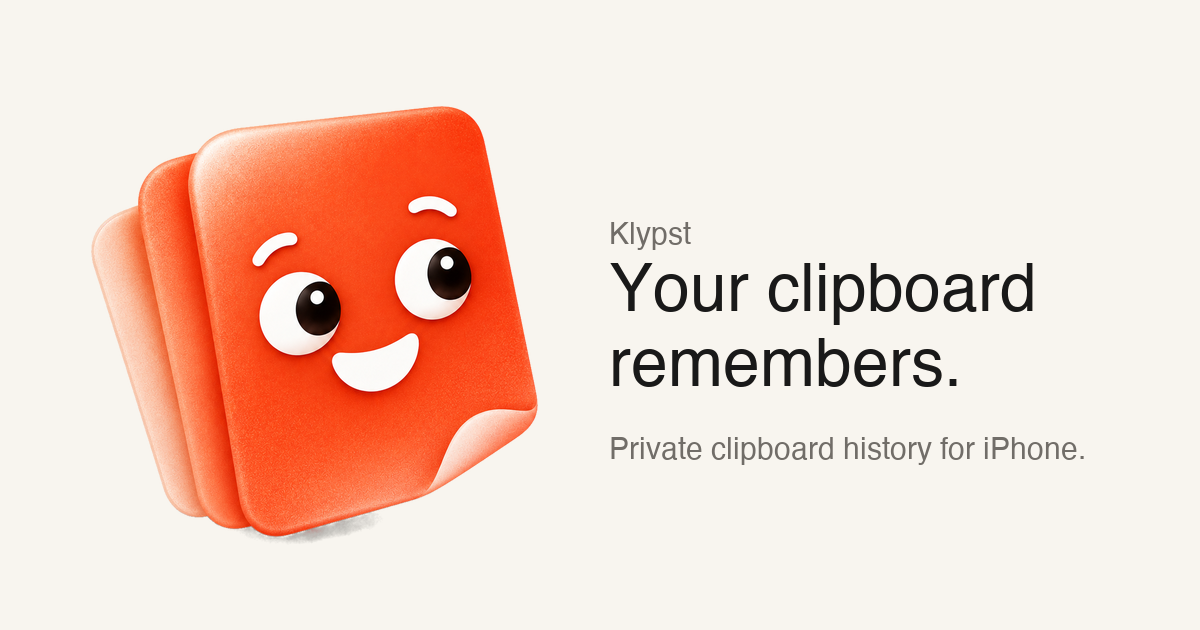
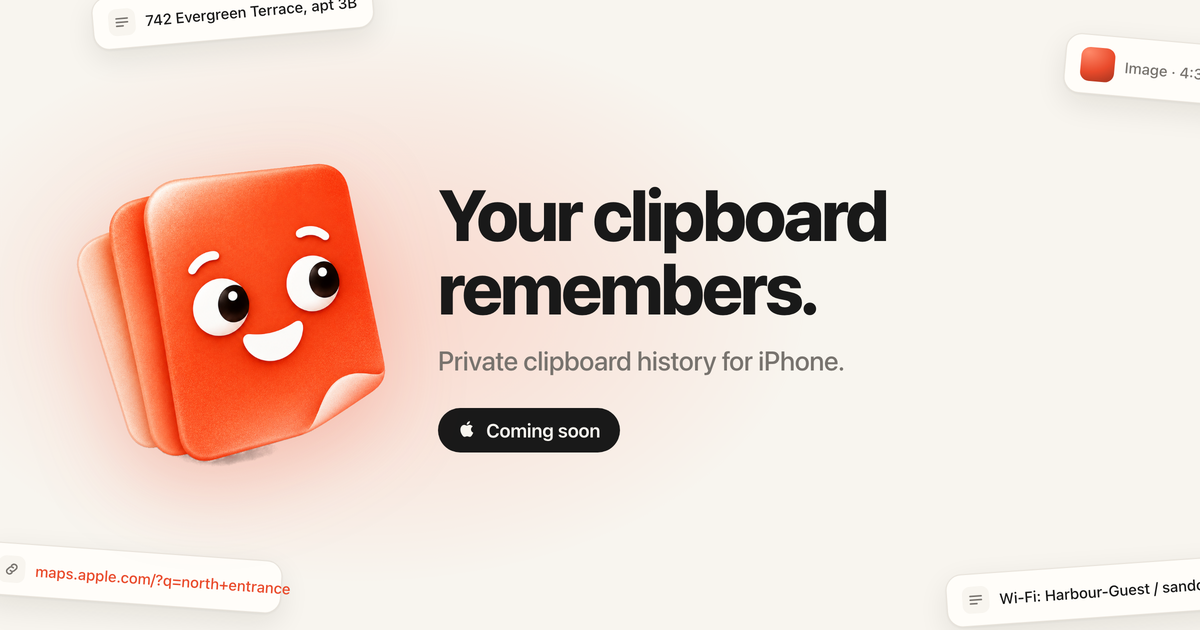
Take Klypst's new social preview
The project replaced its preview: assets/og-image.png is now
assets/og-home.png, and instead of the mascot on an empty cream field it
is a capture of the landing page — headline, Coming soon button, and the
sample clips floating in from the edges. Still 1200x630, so it keeps the
40/21 rule and crops nothing.

It also fixes the contrast at the source. The grey subtitle measures
5.33:1 on the cream now, against 4.33:1 before, so the local darkening
that commit 0f22c0b applied along the antialias ramp is no longer needed
and this is the file as the project ships it.

The alt text follows the image: it is a page capture now, not a logo on
a field, and the button is the one thing in it the tile's own copy does
not already say.

diff --git a/data/projects.ts b/data/projects.ts
@@ -58,7 +58,7 @@ export const projects: Project[] = [
     proof: ['On-device only', 'No clipboard monitoring', 'One press to capture'],
     img: klypst,
     imgAlt:
-      'The Klypst mascot, a stack of orange cards with a face, beside the words “Your clipboard remembers.”',
+      'The Klypst landing page: the mascot, a friendly stack of orange cards, beside “Your clipboard remembers.” and a Coming soon button, with saved clips floating around the edges.',
     urlLabel: 'klypst.vercel.app',
     url: 'https://klypst.vercel.app/',
     size: 'xl',
